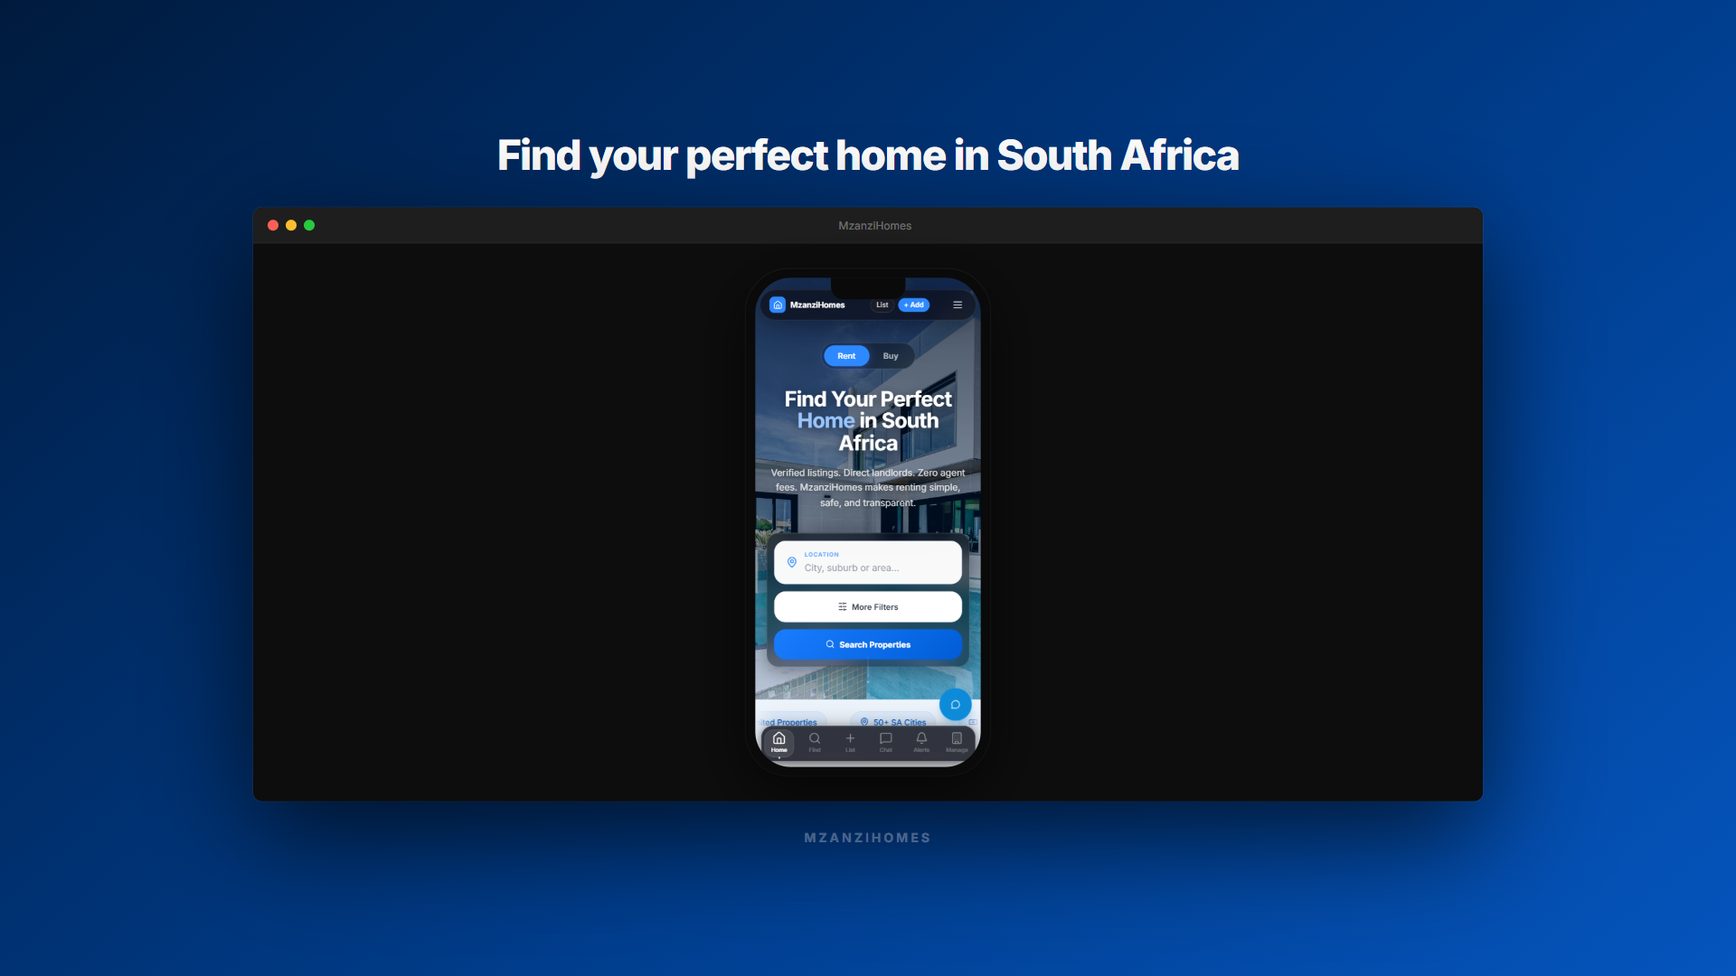
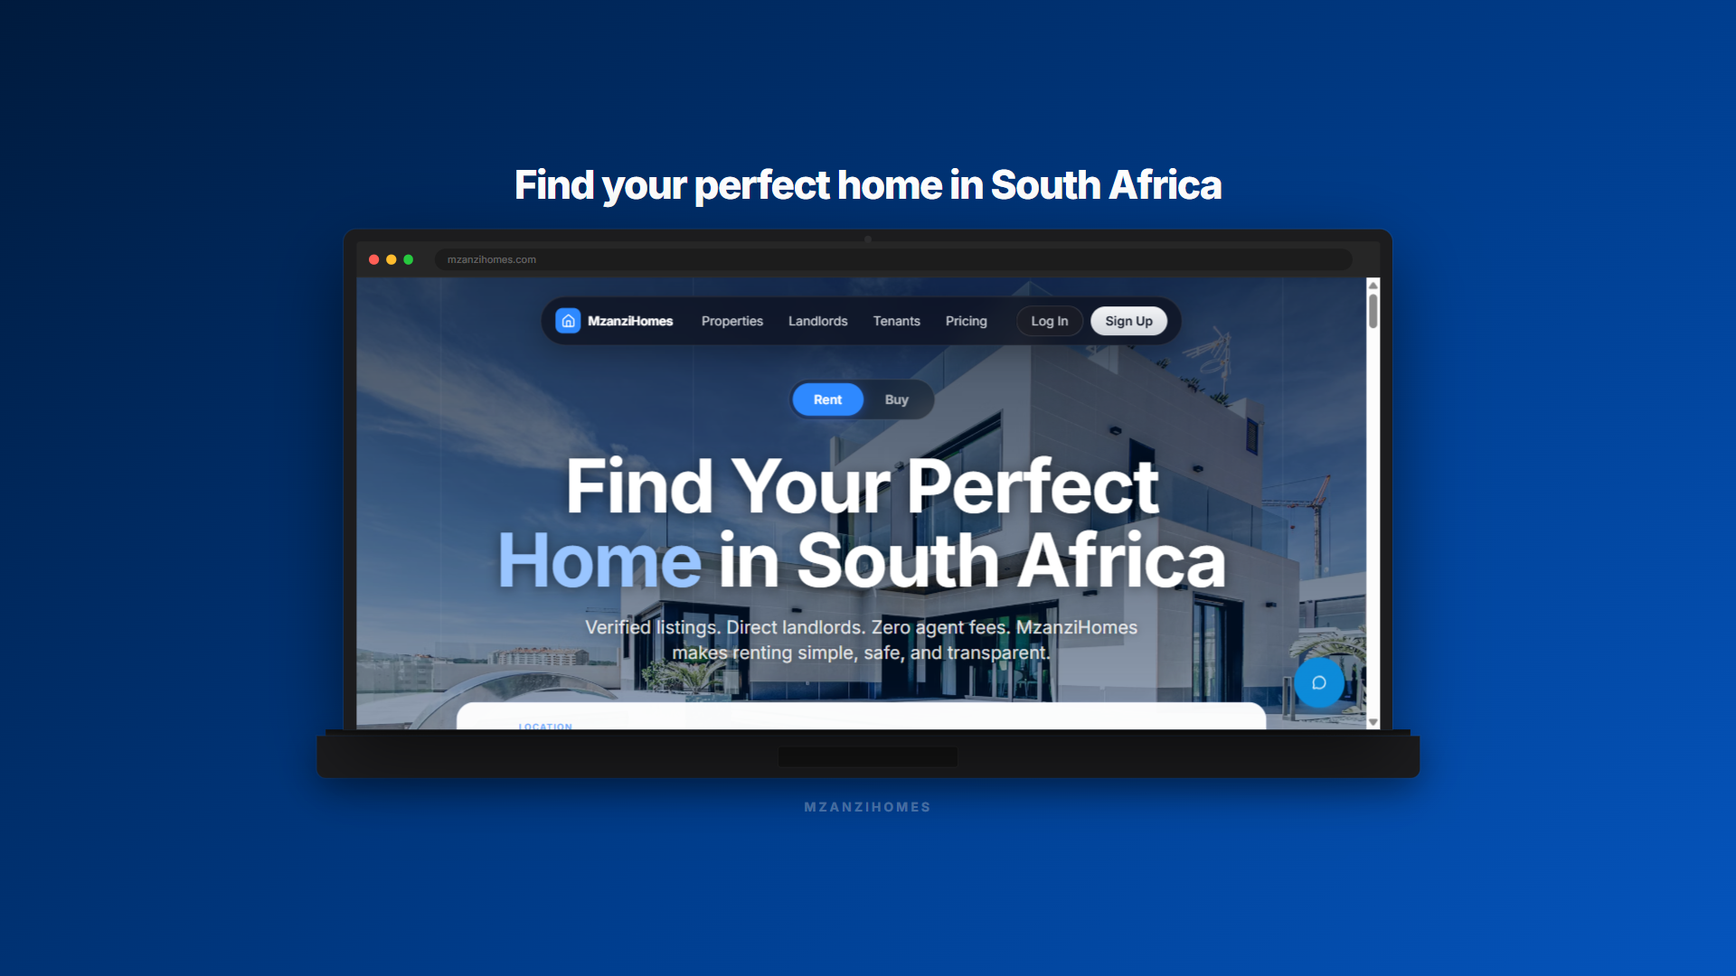
fix(play-store): Chromebook screenshots now show real desktop website
Replaced stretched phone screenshots with actual desktop browser captures
of the live app at 1132px width. Each chromebook frame shows the real
navbar and page content as it appears on a laptop screen.

Pages: home, properties, pricing, about, auth

diff --git a/docs/play-store/screenshots/chromebook-4.html b/docs/play-store/screenshots/chromebook-4.html
@@ -2,32 +2,38 @@
 <link href="https://fonts.googleapis.com/css2?family=Inter:wght@400;600;700;800&display=swap" rel="stylesheet">
 <style>
 *,*::before,*::after{box-sizing:border-box;margin:0;padding:0}
-body{width:1920px;height:1080px;overflow:hidden;background:linear-gradient(140deg,hsl(214,100%,12%) 0%,hsl(214,100%,28%) 60%,hsl(214,95%,38%) 100%);font-family:'Inter',-apple-system,sans-serif;display:flex;flex-direction:column;align-items:center;justify-content:center;gap:32px;padding:52px 120px}
-.caption{color:white;font-size:46px;font-weight:800;text-align:center;line-height:1.15;letter-spacing:-1.5px;max-width:1400px}
-.window{width:1360px;background:#111;border-radius:10px;box-shadow:0 40px 120px rgba(0,0,0,0.7),0 0 0 1px rgba(255,255,255,0.07);overflow:hidden}
-.titlebar{background:#1e1e1e;height:40px;display:flex;align-items:center;padding:0 16px;gap:8px;border-bottom:1px solid rgba(255,255,255,0.06)}
-.dot{width:12px;height:12px;border-radius:50%;flex-shrink:0}
+body{width:1920px;height:1080px;overflow:hidden;background:linear-gradient(140deg,hsl(214,100%,12%) 0%,hsl(214,100%,28%) 60%,hsl(214,95%,38%) 100%);font-family:'Inter',-apple-system,sans-serif;display:flex;flex-direction:column;align-items:center;justify-content:center;gap:24px;padding:48px 100px}
+.caption{color:white;font-size:44px;font-weight:800;text-align:center;line-height:1.15;letter-spacing:-1.5px;max-width:1500px}
+.laptop{display:flex;flex-direction:column;align-items:center}
+.lid{width:1160px;background:#1c1c1e;border-radius:14px 14px 0 0;padding:14px 14px 0;position:relative;box-shadow:0 0 0 1px rgba(255,255,255,0.06),0 30px 80px rgba(0,0,0,0.55)}
+.cam{position:absolute;top:7px;left:50%;transform:translateX(-50%);width:8px;height:8px;background:#2c2c2e;border-radius:50%}
+.screen{border-radius:4px 4px 0 0;overflow:hidden}
+.chrome-bar{background:#262626;height:40px;display:flex;align-items:center;padding:0 14px;gap:8px;border-bottom:1px solid rgba(255,255,255,0.05)}
+.dot{width:11px;height:11px;border-radius:50%;flex-shrink:0}
 .dot.r{background:#ff5f56}.dot.y{background:#ffbd2e}.dot.g{background:#27c93f}
-.win-title{flex:1;text-align:center;font-size:12px;color:rgba(255,255,255,0.35);font-weight:500;margin-right:44px}
-.win-body{padding:28px 0;display:flex;justify-content:center;align-items:flex-start;background:#0d0d0d;min-height:400px}
-.phone{width:270px;background:#0a0a0a;border-radius:48px;padding:10px;box-shadow:0 20px 60px rgba(0,0,0,0.6),0 0 0 1px rgba(255,255,255,0.06);position:relative;flex-shrink:0}
-.notch{position:absolute;top:10px;left:50%;transform:translateX(-50%);width:82px;height:24px;background:#0a0a0a;border-radius:0 0 14px 14px;z-index:10}
-.p-screen{border-radius:40px;overflow:hidden;width:100%}
-.p-screen img{width:100%;display:block}
+.addr{flex:1;height:24px;background:#1c1c1c;border-radius:12px;margin:0 16px;display:flex;align-items:center;padding:0 14px}
+.addr span{font-size:11px;color:rgba(255,255,255,0.3);font-weight:400}
+.content{height:500px;overflow:hidden}
+.content img{width:100%;height:100%;object-fit:cover;object-position:top;display:block}
+.hinge{width:1200px;height:7px;background:linear-gradient(to bottom,#111,#1e1e1e);border-left:1px solid rgba(255,255,255,0.04);border-right:1px solid rgba(255,255,255,0.04)}
+.base{width:1220px;height:46px;background:#1c1c1e;border-radius:0 0 10px 10px;display:flex;align-items:center;justify-content:center;box-shadow:0 12px 40px rgba(0,0,0,0.45),0 0 0 1px rgba(255,255,255,0.05)}
+.trackpad{width:200px;height:24px;background:#141414;border-radius:4px;border:1px solid rgba(255,255,255,0.07)}
 .brand{color:rgba(255,255,255,0.28);font-size:14px;font-weight:700;letter-spacing:3px;text-transform:uppercase}
 </style></head><body>
 <div class="caption">Manage all your properties in one place</div>
-<div class="window">
-  <div class="titlebar">
-    <div class="dot r"></div><div class="dot y"></div><div class="dot g"></div>
-    <div class="win-title">MzanziHomes</div>
-  </div>
-  <div class="win-body">
-    <div class="phone">
-      <div class="notch"></div>
-      <div class="p-screen"><img src="raw-3-dashboard.png"/></div>
+<div class="laptop">
+  <div class="lid">
+    <div class="cam"></div>
+    <div class="screen">
+      <div class="chrome-bar">
+        <div class="dot r"></div><div class="dot y"></div><div class="dot g"></div>
+        <div class="addr"><span>mzanzihomes.com</span></div>
+      </div>
+      <div class="content"><img src="raw-desktop-about.png"/></div>
     </div>
   </div>
+  <div class="hinge"></div>
+  <div class="base"><div class="trackpad"></div></div>
 </div>
 <div class="brand">MzanziHomes</div>
 </body></html>

diff --git a/docs/play-store/screenshots/chromebook-2.html b/docs/play-store/screenshots/chromebook-2.html
@@ -2,32 +2,38 @@
 <link href="https://fonts.googleapis.com/css2?family=Inter:wght@400;600;700;800&display=swap" rel="stylesheet">
 <style>
 *,*::before,*::after{box-sizing:border-box;margin:0;padding:0}
-body{width:1920px;height:1080px;overflow:hidden;background:linear-gradient(140deg,hsl(214,100%,12%) 0%,hsl(214,100%,28%) 60%,hsl(214,95%,38%) 100%);font-family:'Inter',-apple-system,sans-serif;display:flex;flex-direction:column;align-items:center;justify-content:center;gap:32px;padding:52px 120px}
-.caption{color:white;font-size:46px;font-weight:800;text-align:center;line-height:1.15;letter-spacing:-1.5px;max-width:1400px}
-.window{width:1360px;background:#111;border-radius:10px;box-shadow:0 40px 120px rgba(0,0,0,0.7),0 0 0 1px rgba(255,255,255,0.07);overflow:hidden}
-.titlebar{background:#1e1e1e;height:40px;display:flex;align-items:center;padding:0 16px;gap:8px;border-bottom:1px solid rgba(255,255,255,0.06)}
-.dot{width:12px;height:12px;border-radius:50%;flex-shrink:0}
+body{width:1920px;height:1080px;overflow:hidden;background:linear-gradient(140deg,hsl(214,100%,12%) 0%,hsl(214,100%,28%) 60%,hsl(214,95%,38%) 100%);font-family:'Inter',-apple-system,sans-serif;display:flex;flex-direction:column;align-items:center;justify-content:center;gap:24px;padding:48px 100px}
+.caption{color:white;font-size:44px;font-weight:800;text-align:center;line-height:1.15;letter-spacing:-1.5px;max-width:1500px}
+.laptop{display:flex;flex-direction:column;align-items:center}
+.lid{width:1160px;background:#1c1c1e;border-radius:14px 14px 0 0;padding:14px 14px 0;position:relative;box-shadow:0 0 0 1px rgba(255,255,255,0.06),0 30px 80px rgba(0,0,0,0.55)}
+.cam{position:absolute;top:7px;left:50%;transform:translateX(-50%);width:8px;height:8px;background:#2c2c2e;border-radius:50%}
+.screen{border-radius:4px 4px 0 0;overflow:hidden}
+.chrome-bar{background:#262626;height:40px;display:flex;align-items:center;padding:0 14px;gap:8px;border-bottom:1px solid rgba(255,255,255,0.05)}
+.dot{width:11px;height:11px;border-radius:50%;flex-shrink:0}
 .dot.r{background:#ff5f56}.dot.y{background:#ffbd2e}.dot.g{background:#27c93f}
-.win-title{flex:1;text-align:center;font-size:12px;color:rgba(255,255,255,0.35);font-weight:500;margin-right:44px}
-.win-body{padding:28px 0;display:flex;justify-content:center;align-items:flex-start;background:#0d0d0d;min-height:400px}
-.phone{width:270px;background:#0a0a0a;border-radius:48px;padding:10px;box-shadow:0 20px 60px rgba(0,0,0,0.6),0 0 0 1px rgba(255,255,255,0.06);position:relative;flex-shrink:0}
-.notch{position:absolute;top:10px;left:50%;transform:translateX(-50%);width:82px;height:24px;background:#0a0a0a;border-radius:0 0 14px 14px;z-index:10}
-.p-screen{border-radius:40px;overflow:hidden;width:100%}
-.p-screen img{width:100%;display:block}
+.addr{flex:1;height:24px;background:#1c1c1c;border-radius:12px;margin:0 16px;display:flex;align-items:center;padding:0 14px}
+.addr span{font-size:11px;color:rgba(255,255,255,0.3);font-weight:400}
+.content{height:500px;overflow:hidden}
+.content img{width:100%;height:100%;object-fit:cover;object-position:top;display:block}
+.hinge{width:1200px;height:7px;background:linear-gradient(to bottom,#111,#1e1e1e);border-left:1px solid rgba(255,255,255,0.04);border-right:1px solid rgba(255,255,255,0.04)}
+.base{width:1220px;height:46px;background:#1c1c1e;border-radius:0 0 10px 10px;display:flex;align-items:center;justify-content:center;box-shadow:0 12px 40px rgba(0,0,0,0.45),0 0 0 1px rgba(255,255,255,0.05)}
+.trackpad{width:200px;height:24px;background:#141414;border-radius:4px;border:1px solid rgba(255,255,255,0.07)}
 .brand{color:rgba(255,255,255,0.28);font-size:14px;font-weight:700;letter-spacing:3px;text-transform:uppercase}
 </style></head><body>
 <div class="caption">Browse verified rentals near you</div>
-<div class="window">
-  <div class="titlebar">
-    <div class="dot r"></div><div class="dot y"></div><div class="dot g"></div>
-    <div class="win-title">MzanziHomes</div>
-  </div>
-  <div class="win-body">
-    <div class="phone">
-      <div class="notch"></div>
-      <div class="p-screen"><img src="raw-1-properties.png"/></div>
+<div class="laptop">
+  <div class="lid">
+    <div class="cam"></div>
+    <div class="screen">
+      <div class="chrome-bar">
+        <div class="dot r"></div><div class="dot y"></div><div class="dot g"></div>
+        <div class="addr"><span>mzanzihomes.com</span></div>
+      </div>
+      <div class="content"><img src="raw-desktop-properties.png"/></div>
     </div>
   </div>
+  <div class="hinge"></div>
+  <div class="base"><div class="trackpad"></div></div>
 </div>
 <div class="brand">MzanziHomes</div>
 </body></html>

diff --git a/docs/play-store/screenshots/chromebook-3.html b/docs/play-store/screenshots/chromebook-3.html
@@ -2,32 +2,38 @@
 <link href="https://fonts.googleapis.com/css2?family=Inter:wght@400;600;700;800&display=swap" rel="stylesheet">
 <style>
 *,*::before,*::after{box-sizing:border-box;margin:0;padding:0}
-body{width:1920px;height:1080px;overflow:hidden;background:linear-gradient(140deg,hsl(214,100%,12%) 0%,hsl(214,100%,28%) 60%,hsl(214,95%,38%) 100%);font-family:'Inter',-apple-system,sans-serif;display:flex;flex-direction:column;align-items:center;justify-content:center;gap:32px;padding:52px 120px}
-.caption{color:white;font-size:46px;font-weight:800;text-align:center;line-height:1.15;letter-spacing:-1.5px;max-width:1400px}
-.window{width:1360px;background:#111;border-radius:10px;box-shadow:0 40px 120px rgba(0,0,0,0.7),0 0 0 1px rgba(255,255,255,0.07);overflow:hidden}
-.titlebar{background:#1e1e1e;height:40px;display:flex;align-items:center;padding:0 16px;gap:8px;border-bottom:1px solid rgba(255,255,255,0.06)}
-.dot{width:12px;height:12px;border-radius:50%;flex-shrink:0}
+body{width:1920px;height:1080px;overflow:hidden;background:linear-gradient(140deg,hsl(214,100%,12%) 0%,hsl(214,100%,28%) 60%,hsl(214,95%,38%) 100%);font-family:'Inter',-apple-system,sans-serif;display:flex;flex-direction:column;align-items:center;justify-content:center;gap:24px;padding:48px 100px}
+.caption{color:white;font-size:44px;font-weight:800;text-align:center;line-height:1.15;letter-spacing:-1.5px;max-width:1500px}
+.laptop{display:flex;flex-direction:column;align-items:center}
+.lid{width:1160px;background:#1c1c1e;border-radius:14px 14px 0 0;padding:14px 14px 0;position:relative;box-shadow:0 0 0 1px rgba(255,255,255,0.06),0 30px 80px rgba(0,0,0,0.55)}
+.cam{position:absolute;top:7px;left:50%;transform:translateX(-50%);width:8px;height:8px;background:#2c2c2e;border-radius:50%}
+.screen{border-radius:4px 4px 0 0;overflow:hidden}
+.chrome-bar{background:#262626;height:40px;display:flex;align-items:center;padding:0 14px;gap:8px;border-bottom:1px solid rgba(255,255,255,0.05)}
+.dot{width:11px;height:11px;border-radius:50%;flex-shrink:0}
 .dot.r{background:#ff5f56}.dot.y{background:#ffbd2e}.dot.g{background:#27c93f}
-.win-title{flex:1;text-align:center;font-size:12px;color:rgba(255,255,255,0.35);font-weight:500;margin-right:44px}
-.win-body{padding:28px 0;display:flex;justify-content:center;align-items:flex-start;background:#0d0d0d;min-height:400px}
-.phone{width:270px;background:#0a0a0a;border-radius:48px;padding:10px;box-shadow:0 20px 60px rgba(0,0,0,0.6),0 0 0 1px rgba(255,255,255,0.06);position:relative;flex-shrink:0}
-.notch{position:absolute;top:10px;left:50%;transform:translateX(-50%);width:82px;height:24px;background:#0a0a0a;border-radius:0 0 14px 14px;z-index:10}
-.p-screen{border-radius:40px;overflow:hidden;width:100%}
-.p-screen img{width:100%;display:block}
+.addr{flex:1;height:24px;background:#1c1c1c;border-radius:12px;margin:0 16px;display:flex;align-items:center;padding:0 14px}
+.addr span{font-size:11px;color:rgba(255,255,255,0.3);font-weight:400}
+.content{height:500px;overflow:hidden}
+.content img{width:100%;height:100%;object-fit:cover;object-position:top;display:block}
+.hinge{width:1200px;height:7px;background:linear-gradient(to bottom,#111,#1e1e1e);border-left:1px solid rgba(255,255,255,0.04);border-right:1px solid rgba(255,255,255,0.04)}
+.base{width:1220px;height:46px;background:#1c1c1e;border-radius:0 0 10px 10px;display:flex;align-items:center;justify-content:center;box-shadow:0 12px 40px rgba(0,0,0,0.45),0 0 0 1px rgba(255,255,255,0.05)}
+.trackpad{width:200px;height:24px;background:#141414;border-radius:4px;border:1px solid rgba(255,255,255,0.07)}
 .brand{color:rgba(255,255,255,0.28);font-size:14px;font-weight:700;letter-spacing:3px;text-transform:uppercase}
 </style></head><body>
 <div class="caption">Everything you need to decide</div>
-<div class="window">
-  <div class="titlebar">
-    <div class="dot r"></div><div class="dot y"></div><div class="dot g"></div>
-    <div class="win-title">MzanziHomes</div>
-  </div>
-  <div class="win-body">
-    <div class="phone">
-      <div class="notch"></div>
-      <div class="p-screen"><img src="raw-2-property-detail.png"/></div>
+<div class="laptop">
+  <div class="lid">
+    <div class="cam"></div>
+    <div class="screen">
+      <div class="chrome-bar">
+        <div class="dot r"></div><div class="dot y"></div><div class="dot g"></div>
+        <div class="addr"><span>mzanzihomes.com</span></div>
+      </div>
+      <div class="content"><img src="raw-desktop-pricing.png"/></div>
     </div>
   </div>
+  <div class="hinge"></div>
+  <div class="base"><div class="trackpad"></div></div>
 </div>
 <div class="brand">MzanziHomes</div>
 </body></html>

diff --git a/docs/play-store/screenshots/chromebook-1.html b/docs/play-store/screenshots/chromebook-1.html
@@ -2,32 +2,38 @@
 <link href="https://fonts.googleapis.com/css2?family=Inter:wght@400;600;700;800&display=swap" rel="stylesheet">
 <style>
 *,*::before,*::after{box-sizing:border-box;margin:0;padding:0}
-body{width:1920px;height:1080px;overflow:hidden;background:linear-gradient(140deg,hsl(214,100%,12%) 0%,hsl(214,100%,28%) 60%,hsl(214,95%,38%) 100%);font-family:'Inter',-apple-system,sans-serif;display:flex;flex-direction:column;align-items:center;justify-content:center;gap:32px;padding:52px 120px}
-.caption{color:white;font-size:46px;font-weight:800;text-align:center;line-height:1.15;letter-spacing:-1.5px;max-width:1400px}
-.window{width:1360px;background:#111;border-radius:10px;box-shadow:0 40px 120px rgba(0,0,0,0.7),0 0 0 1px rgba(255,255,255,0.07);overflow:hidden}
-.titlebar{background:#1e1e1e;height:40px;display:flex;align-items:center;padding:0 16px;gap:8px;border-bottom:1px solid rgba(255,255,255,0.06)}
-.dot{width:12px;height:12px;border-radius:50%;flex-shrink:0}
+body{width:1920px;height:1080px;overflow:hidden;background:linear-gradient(140deg,hsl(214,100%,12%) 0%,hsl(214,100%,28%) 60%,hsl(214,95%,38%) 100%);font-family:'Inter',-apple-system,sans-serif;display:flex;flex-direction:column;align-items:center;justify-content:center;gap:24px;padding:48px 100px}
+.caption{color:white;font-size:44px;font-weight:800;text-align:center;line-height:1.15;letter-spacing:-1.5px;max-width:1500px}
+.laptop{display:flex;flex-direction:column;align-items:center}
+.lid{width:1160px;background:#1c1c1e;border-radius:14px 14px 0 0;padding:14px 14px 0;position:relative;box-shadow:0 0 0 1px rgba(255,255,255,0.06),0 30px 80px rgba(0,0,0,0.55)}
+.cam{position:absolute;top:7px;left:50%;transform:translateX(-50%);width:8px;height:8px;background:#2c2c2e;border-radius:50%}
+.screen{border-radius:4px 4px 0 0;overflow:hidden}
+.chrome-bar{background:#262626;height:40px;display:flex;align-items:center;padding:0 14px;gap:8px;border-bottom:1px solid rgba(255,255,255,0.05)}
+.dot{width:11px;height:11px;border-radius:50%;flex-shrink:0}
 .dot.r{background:#ff5f56}.dot.y{background:#ffbd2e}.dot.g{background:#27c93f}
-.win-title{flex:1;text-align:center;font-size:12px;color:rgba(255,255,255,0.35);font-weight:500;margin-right:44px}
-.win-body{padding:28px 0;display:flex;justify-content:center;align-items:flex-start;background:#0d0d0d;min-height:400px}
-.phone{width:270px;background:#0a0a0a;border-radius:48px;padding:10px;box-shadow:0 20px 60px rgba(0,0,0,0.6),0 0 0 1px rgba(255,255,255,0.06);position:relative;flex-shrink:0}
-.notch{position:absolute;top:10px;left:50%;transform:translateX(-50%);width:82px;height:24px;background:#0a0a0a;border-radius:0 0 14px 14px;z-index:10}
-.p-screen{border-radius:40px;overflow:hidden;width:100%}
-.p-screen img{width:100%;display:block}
+.addr{flex:1;height:24px;background:#1c1c1c;border-radius:12px;margin:0 16px;display:flex;align-items:center;padding:0 14px}
+.addr span{font-size:11px;color:rgba(255,255,255,0.3);font-weight:400}
+.content{height:500px;overflow:hidden}
+.content img{width:100%;height:100%;object-fit:cover;object-position:top;display:block}
+.hinge{width:1200px;height:7px;background:linear-gradient(to bottom,#111,#1e1e1e);border-left:1px solid rgba(255,255,255,0.04);border-right:1px solid rgba(255,255,255,0.04)}
+.base{width:1220px;height:46px;background:#1c1c1e;border-radius:0 0 10px 10px;display:flex;align-items:center;justify-content:center;box-shadow:0 12px 40px rgba(0,0,0,0.45),0 0 0 1px rgba(255,255,255,0.05)}
+.trackpad{width:200px;height:24px;background:#141414;border-radius:4px;border:1px solid rgba(255,255,255,0.07)}
 .brand{color:rgba(255,255,255,0.28);font-size:14px;font-weight:700;letter-spacing:3px;text-transform:uppercase}
 </style></head><body>
 <div class="caption">Find your perfect home in South Africa</div>
-<div class="window">
-  <div class="titlebar">
-    <div class="dot r"></div><div class="dot y"></div><div class="dot g"></div>
-    <div class="win-title">MzanziHomes</div>
-  </div>
-  <div class="win-body">
-    <div class="phone">
-      <div class="notch"></div>
-      <div class="p-screen"><img src="raw-0-home.png"/></div>
+<div class="laptop">
+  <div class="lid">
+    <div class="cam"></div>
+    <div class="screen">
+      <div class="chrome-bar">
+        <div class="dot r"></div><div class="dot y"></div><div class="dot g"></div>
+        <div class="addr"><span>mzanzihomes.com</span></div>
+      </div>
+      <div class="content"><img src="raw-desktop-home.png"/></div>
     </div>
   </div>
+  <div class="hinge"></div>
+  <div class="base"><div class="trackpad"></div></div>
 </div>
 <div class="brand">MzanziHomes</div>
 </body></html>

diff --git a/docs/play-store/screenshots/chromebook-5.html b/docs/play-store/screenshots/chromebook-5.html
@@ -2,32 +2,38 @@
 <link href="https://fonts.googleapis.com/css2?family=Inter:wght@400;600;700;800&display=swap" rel="stylesheet">
 <style>
 *,*::before,*::after{box-sizing:border-box;margin:0;padding:0}
-body{width:1920px;height:1080px;overflow:hidden;background:linear-gradient(140deg,hsl(214,100%,12%) 0%,hsl(214,100%,28%) 60%,hsl(214,95%,38%) 100%);font-family:'Inter',-apple-system,sans-serif;display:flex;flex-direction:column;align-items:center;justify-content:center;gap:32px;padding:52px 120px}
-.caption{color:white;font-size:46px;font-weight:800;text-align:center;line-height:1.15;letter-spacing:-1.5px;max-width:1400px}
-.window{width:1360px;background:#111;border-radius:10px;box-shadow:0 40px 120px rgba(0,0,0,0.7),0 0 0 1px rgba(255,255,255,0.07);overflow:hidden}
-.titlebar{background:#1e1e1e;height:40px;display:flex;align-items:center;padding:0 16px;gap:8px;border-bottom:1px solid rgba(255,255,255,0.06)}
-.dot{width:12px;height:12px;border-radius:50%;flex-shrink:0}
+body{width:1920px;height:1080px;overflow:hidden;background:linear-gradient(140deg,hsl(214,100%,12%) 0%,hsl(214,100%,28%) 60%,hsl(214,95%,38%) 100%);font-family:'Inter',-apple-system,sans-serif;display:flex;flex-direction:column;align-items:center;justify-content:center;gap:24px;padding:48px 100px}
+.caption{color:white;font-size:44px;font-weight:800;text-align:center;line-height:1.15;letter-spacing:-1.5px;max-width:1500px}
+.laptop{display:flex;flex-direction:column;align-items:center}
+.lid{width:1160px;background:#1c1c1e;border-radius:14px 14px 0 0;padding:14px 14px 0;position:relative;box-shadow:0 0 0 1px rgba(255,255,255,0.06),0 30px 80px rgba(0,0,0,0.55)}
+.cam{position:absolute;top:7px;left:50%;transform:translateX(-50%);width:8px;height:8px;background:#2c2c2e;border-radius:50%}
+.screen{border-radius:4px 4px 0 0;overflow:hidden}
+.chrome-bar{background:#262626;height:40px;display:flex;align-items:center;padding:0 14px;gap:8px;border-bottom:1px solid rgba(255,255,255,0.05)}
+.dot{width:11px;height:11px;border-radius:50%;flex-shrink:0}
 .dot.r{background:#ff5f56}.dot.y{background:#ffbd2e}.dot.g{background:#27c93f}
-.win-title{flex:1;text-align:center;font-size:12px;color:rgba(255,255,255,0.35);font-weight:500;margin-right:44px}
-.win-body{padding:28px 0;display:flex;justify-content:center;align-items:flex-start;background:#0d0d0d;min-height:400px}
-.phone{width:270px;background:#0a0a0a;border-radius:48px;padding:10px;box-shadow:0 20px 60px rgba(0,0,0,0.6),0 0 0 1px rgba(255,255,255,0.06);position:relative;flex-shrink:0}
-.notch{position:absolute;top:10px;left:50%;transform:translateX(-50%);width:82px;height:24px;background:#0a0a0a;border-radius:0 0 14px 14px;z-index:10}
-.p-screen{border-radius:40px;overflow:hidden;width:100%}
-.p-screen img{width:100%;display:block}
+.addr{flex:1;height:24px;background:#1c1c1c;border-radius:12px;margin:0 16px;display:flex;align-items:center;padding:0 14px}
+.addr span{font-size:11px;color:rgba(255,255,255,0.3);font-weight:400}
+.content{height:500px;overflow:hidden}
+.content img{width:100%;height:100%;object-fit:cover;object-position:top;display:block}
+.hinge{width:1200px;height:7px;background:linear-gradient(to bottom,#111,#1e1e1e);border-left:1px solid rgba(255,255,255,0.04);border-right:1px solid rgba(255,255,255,0.04)}
+.base{width:1220px;height:46px;background:#1c1c1e;border-radius:0 0 10px 10px;display:flex;align-items:center;justify-content:center;box-shadow:0 12px 40px rgba(0,0,0,0.45),0 0 0 1px rgba(255,255,255,0.05)}
+.trackpad{width:200px;height:24px;background:#141414;border-radius:4px;border:1px solid rgba(255,255,255,0.07)}
 .brand{color:rgba(255,255,255,0.28);font-size:14px;font-weight:700;letter-spacing:3px;text-transform:uppercase}
 </style></head><body>
 <div class="caption">Get started in seconds</div>
-<div class="window">
-  <div class="titlebar">
-    <div class="dot r"></div><div class="dot y"></div><div class="dot g"></div>
-    <div class="win-title">MzanziHomes</div>
-  </div>
-  <div class="win-body">
-    <div class="phone">
-      <div class="notch"></div>
-      <div class="p-screen"><img src="raw-auth.png"/></div>
+<div class="laptop">
+  <div class="lid">
+    <div class="cam"></div>
+    <div class="screen">
+      <div class="chrome-bar">
+        <div class="dot r"></div><div class="dot y"></div><div class="dot g"></div>
+        <div class="addr"><span>mzanzihomes.com</span></div>
+      </div>
+      <div class="content"><img src="raw-desktop-auth.png"/></div>
     </div>
   </div>
+  <div class="hinge"></div>
+  <div class="base"><div class="trackpad"></div></div>
 </div>
 <div class="brand">MzanziHomes</div>
 </body></html>
